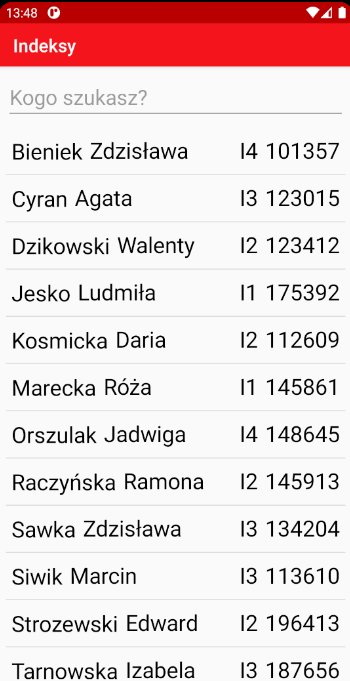
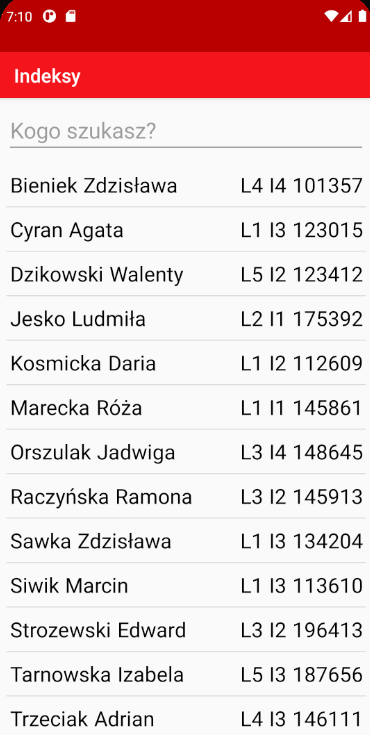
update screenshots

diff --git a/app/src/main/java/com/example/indeksy/IndeksRoomDatabase.java b/app/src/main/java/com/example/indeksy/IndeksRoomDatabase.java
@@ -40,175 +40,26 @@ public abstract class IndeksRoomDatabase extends RoomDatabase {
         public void onCreate(@NonNull SupportSQLiteDatabase db) {
             super.onCreate(db);
 
-            // If you want to keep data through app restarts,
-            // comment out the following block
             databaseWriteExecutor.execute(() -> {
-                // Populate the database in the background.
-                // If you want to start with more words, just add them.
                 IndeksDAO dao = INSTANCE.indeksDAO();
                 dao.deleteAll();
 
                 String[] mIndeksy = new String[] {
-                        "Mumot Bartłomiej 141287 I2 L8",
-                        "Bronka Joanna 141024 I4 L2",
-                        "Matyla Olga 141276 I3 L4",
-                        "Ollek Mateusz 141291 I3 L4",
-                        "Rękawek Zuzanna 141304 I3 L7",
-                        "Szymański Piotr 141322 I3 L2",
-                        "Wiecheć Bartosz 141334 I3 L5",
-                        "Mirkiewicz Martyna 141285 I3 L4",
-                        "Opielewicz Szymon 141293 I3 L6",
-                        "Stryszowska Aleksandra 141314 I3 L6",
-                        "Tylczyński Piotr 141331 I3 L5",
-                        "Wojciechowska Karolina 141336 I3 -",
-                        "Kluba Mateusz 141246 I2 L8",
-                        "Kowalewski Michał 141253 I2 L4",
-                        "Lewandowski Wojciech 141265 I2 L4",
-                        "Małecki Krzesimir 141271 I2 L8",
-                        "Kulesa Katarzyna 141259 I5 L4",
-                        "Olszewski Michał 141292 I3 L4",
-                        "Adamczyk Joanna 141181 I1 L3",
-                        "Andrysiak Agata 141183 I1 L10",
-                        "Bekas Michał 141187 I1 L10",
-                        "Bosacki Gerard 141193 I1 L2",
-                        "Cichocki Ernest 141200 I1 L8",
-                        "Cichowski Kacper 141201 I1 L2",
-                        "Cwajda Hubert 141203 I1 L8",
-                        "Czaplewska Eliza 141204 I1 L2",
-                        "Firlej Oskar 141211 I1 L2",
-                        "Gleska Piotr 141220 I1 L9",
-                        "Głębowska Daria 141221 I1 L9",
-                        "Gosławski Jakub 141222 I1 L5",
-                        "Górczak Wiktor 141223 I1 L10",
-                        "Góreczny Piotr 141224 I1 L9",
-                        "Makałowski Dawid 141270 I1 L10",
-                        "Manikowska Michalina 141272 I1 L10",
-                        "Mąkowski Joachim 141278 I1 L4",
-                        "Mularski Krzysztof 146893 I1 L9",
-                        "Oberenkowski Roman 141289 I1 L7",
-                        "Okonek Marcin 141290 I1 L10",
-                        "Radzi Weronika 141303 I1 L8",
-                        "Sroka Szymon 141312 I1 L8",
-                        "Szczepaniak Michał 141317 I1 L10",
-                        "Szewczyk Maciej 141318 I1 -",
-                        "Szóstak Filip 141320 I1 L10",
-                        "Szulc Albert 141321 I1 L6",
-                        "Szymczak Aleksander 141323 I1 L9",
-                        "Świerkowska Aleksandra 141325 I1 L10",
-                        "Todek Jan 141326 I1 L6",
-                        "Tomczyk Adam 141327 I1 L2",
-                        "Trafas Zuzanna 141329 I1 L8",
-                        "Trzeciak Kacper 141330 I1 L6",
-                        "Walkowiak Bogumiła 141332 I1 L5",
-                        "Wiśniewski Michał 141335 I1 L5",
-                        "Handke Adam 141230 I2 L3",
-                        "Hercog Maciej 141231 I2 L3",
-                        "Januszkiewicz Kamil 127203 I2 L1",
-                        "Jaroński Piotr 141237 I2 L6",
-                        "Kamiński Piotr 141241 I2 L9",
-                        "Karlic Mateusz 141243 I2 L7",
-                        "Kolanowski Jan 141247 I2 L8",
-                        "Koszela Wojciech 141251 I2 L8",
-                        "Kosmalski Tomasz 141250 I2 L7",
-                        "Krawczyk Adam 141257 I2 L7",
-                        "Leski Kacper 141262 I2 L7",
-                        "Mędzin Michał 141279 I2 L4",
-                        "Mieczyński Paweł 141280 I2 L6",
-                        "Mikołajczak Maria 141282 I2 L4",
-                        "Mrozek Weronika 141286 I2 L10",
-                        "Nowinowski Antoni 141288 I2 L8",
-                        "Pawłowski Adam 141297 I2 L8",
-                        "Pawłowski Igor 140759 I2 -",
-                        "Pilarczyk Bartosz 141300 I2 L2",
-                        "Popadowska Julia 136783 I2 -",
-                        "Przybylak Dawid 141301 I2 -",
-                        "Ravliv Pavlo 135412 I2 L9",
-                        "Stachowiak Julia 141313 I2 L10",
-                        "Strzyżewski Kajetan 141315 I2 -",
-                        "Szalczyk Paweł 138859 I2 L1",
-                        "Szot Grzegorz 141319 I2 L5",
-                        "Bączkiewicz Agata 141186 I3 L3",
-                        "Bolimowski Maksymilian 141191 I3 L5",
-                        "Burdziński Radosław 141195 I3 L2",
-                        "Cybulski Damian 120573 I3 -",
-                        "Dzięgielewski Szymon 141030 I3 L5",
-                        "Frankowski Marcin 135382 I3 L7",
-                        "Grzeszczak Justyna 136244 I3 L1",
-                        "Jakubiec Szymon 126997 I3 -",
-                        "Karłowicz Miłosz 136564 I3 L7",
-                        "Krzyżanowicz Adrian 141070 I3 L7",
-                        "Mickiewicz Szymon 136771 I3 -",
-                        "Lindenau Hubert 141077 I3 L6",
-                        "Milewski Cezary 141284 I3 L4",
-                        "Piechocki Michał 141298 I3 L5",
-                        "Putra Marcin 140766 I3 L5",
-                        "Radecki Radosław 115588 I3 L3",
-                        "Samelak Klaudyna 141306 I3 L5",
-                        "Szymkowiak Bartłomiej 141324 I3 L6",
-                        "Tylski Kacper 140797 I3 L2",
-                        "Wojciechowski Adam 136376 I3 L1",
-                        "Ambroży Przemysław 141182 I4 L3",
-                        "Basiński Lubomir 141185 I4 L7",
-                        "Boruta Paweł 141192 I4 L8",
-                        "Busse Antonina 141196 I4 -",
-                        "Celmer Błażej 141197 I4 L3",
-                        "Ciechanowicz Jan 141202 I4 L5",
-                        "Czart Feliks 141205 I4 L2",
-                        "Czyżewska Natalia 141207 I4 L3",
-                        "Derenowski Piotr 141208 I4 L3",
-                        "Frątczak Łukasz 141213 I4 L3",
-                        "Gardecki Jakub 141218 I4 L7",
-                        "Hanusek Kamil 132238 I4 -",
-                        "Jabłońska Magdalena 141234 I4 L2",
-                        "Kempa Mateusz 139952 I4 L7",
-                        "Klaczyński Mateusz 136735 I4 L1",
-                        "Kotyński Daniel 146905 I4 L7",
-                        "Kustra Adam 141071 I4 -",
-                        "Lemański Mateusz 136276 I4 L9",
-                        "Lisiak Jędrzej 141078 I4 -",
-                        "Martin Krzysztof 141275 I4 L4",
-                        "Mietła Michał 141281 I4 -",
-                        "Ogrodowczyk Mateusz 136777 I4 L9",
-                        "Pietrzak Jan 141299 I4 L2",
-                        "Przypaśniak Michał 141302 I4 L8",
-                        "Pylnyk Roman 139056 I4 L6",
-                        "Różycki Jakub 141105 I4 L2",
-                        "Sztuczka Przemysław 141119 I4 L10",
-                        "Weber Jerzy 140801 I4 L2",
-                        "Wojtyniak Tomasz 140807 I4 L9",
-                        "Zięba Marek 141337 I4 L9",
-                        "Zwierzchowski Daniel 141338 I4 L5",
-                        "Żelazowski Mateusz 140810 I4 L3",
-                        "Falbogowski Maciej 141210 I5 L8",
-                        "Frieske Jakub 141214 I5 L3",
-                        "Futymski Piotr 141216 I5 L2",
-                        "Gajewski Mateusz 141217 I5 L3",
-                        "Graczyk Stanisław 146889 I5 L9",
-                        "Gruszka Anna 141226 I5 L3",
-                        "Grygorowicz Kamil 141227 I5 L9",
-                        "Gumowski Przemysław 141229 I5 L10",
-                        "Hromniuk Denys 141232 I5 L9",
-                        "Jankowiak Tomasz 141235 I5 L3",
-                        "Jankowski Szymon 141236 I5 L7",
-                        "Juszczak Zuzanna 141238 I5 L3",
-                        "Kaczmarek Stanisław 141240 I5 L4",
-                        "Kamiński Wojciech 141242 I5 L7",
-                        "Kasprzak Jakub 141244 I5 L6",
-                        "Kellner Adrian 141245 I5 L4",
-                        "Kosmala Eryk 141249 I5 L4",
-                        "Kowalski Bartosz 141254 I5 L6",
-                        "Kozłowski Filip 141256 I5 L5",
-                        "Kurzawa Maciej 141260 I5 L6",
-                        "Kwartnik Radosław 127321 I5 L1",
-                        "Lewandowski Michał 141264 I5 L6",
-                        "Maćkowiak Wiktor 141269 I5 L5",
-                        "Marciniak Adam 141273 I5 L4",
-                        "Marciniak Wojciech 141274 I5 L5",
-                        "Papież Aleksander 141295 I5 L7",
-                        "Pauter Tobiasz 141296 I5 L6",
-                        "Poda Daria 139154 I5 L1",
-                        "Steczkowska Zofia 136629 I5 -",
-                        "Turczynowski Michał 136822 I5 L1"};
+                        "Marecka Róża 145861 I1 L1",
+                        "Jesko Ludmiła 175392 I1 L2",
+                        "Raczyńska Ramona 145913 I2 L3",
+                        "Sawka Zdzisława 134204 I3 L1",
+                        "Orszulak Jadwiga 148645 I4 L3",
+                        "Tarnowska Izabela 187656 I3 L5",
+                        "Bieniek Zdzisława 101357 I4 L4",
+                        "Wierzba Czesława 154608 I1 L3",
+                        "Kosmicka Daria 112609 I2 L1",
+                        "Siwik Marcin 113610 I3 L1",
+                        "Trzeciak Adrian 146111 I3 L4",
+                        "Dzikowski Walenty 123412 I2 L5",
+                        "Strozewski Edward 196413 I2 L3",
+                        "Wolkow Jacek 164814 I2 L2",
+                        "Cyran Agata 123015 I3 L1"};
 
 
                 List<Indeks> mIndeksyData = new ArrayList<Indeks>();
@@ -220,7 +71,6 @@ public abstract class IndeksRoomDatabase extends RoomDatabase {
 
                 for (Indeks i: mIndeksyData) {
                     dao.insert(i);
-                    //.e(MainActivity.class.getSimpleName(), "ssssssssssssss" + String.valueOf(mIndeksViewModel.getAllIndeks().) +"xxxxxxxxxxxxxxxxxxx");
                 }
             });
         }
